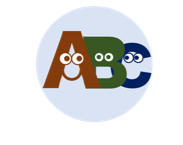
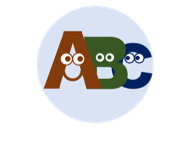
member

diff --git a/_site/index.html b/_site/index.html
@@ -95,7 +95,7 @@
         <div class="container">
             <div class="row">
                 <div class="col-lg-12">
-                    <img class="img-responsive" src="img/abc_small.png" alt="">
+                    <img class="img-responsive" src="img/abc_middle.png" width="400" alt="">
                     <div class="intro-text">
                         <hr class="star-light">
                         <span class="sub">International Conference on</span>
@@ -259,7 +259,7 @@
                       <p><b>Atiqur Rahman Ahad</b>, <i>University of Dhaka, Bangladesh / Osaka University, Japan</i></p>
                     
                   
-                  <h3>Program Chairs (tentative)</h3>
+                  <h3>Program Chairs</h3>
                     
                       <p><b>Ren Ohmura</b>, <i>Toyohashi University of Technology, Japan</i></p>
                     
@@ -270,10 +270,12 @@
                     
                       <p><b>Paul Lukowicz</b>, <i>DFKI, Germany</i></p>
                     
+                      <p><b>Kristof Van Laerhoven</b>, <i>University of Siegen, Germany</i></p>
+                    
                       <p><b>Daniel Roggen</b>, <i>University of Sussex, UK</i></p>
                     
                   
-                  <h3>Program Committee (TBD)</h3>
+                  <h3>Program Committee (TBA)</h3>
                     
                       <p><b>Kristof Van Laerhoven</b>, <i>University of Siegen, Germany</i></p>
                     
@@ -286,6 +288,10 @@
                       <p><b>Hristijan Gjoreski</b>, <i>Ss. Cyril and Methodius University, Macedonia</i></p>
                     
                       <p><b>Katsuhiko Kaji</b>, <i>Aichi Institute of Technology, Japan</i></p>
+                    
+                      <p><b>Tsuyoshi Okita</b>, <i>Kyushu Institute of Technology / Riken, Japan</i></p>
+                    
+                      <p><b>Paula Lago</b>, <i>Kyushu Institute of Technology, Japan</i></p>
                     
                   
                 </div>

diff --git a/_site/web development/2014/07/14/project-5/index.html b/_site/web development/2014/07/14/project-5/index.html
@@ -95,7 +95,7 @@
         <div class="container">
             <div class="row">
                 <div class="col-lg-12">
-                    <img class="img-responsive" src="img/abc_small.png" alt="">
+                    <img class="img-responsive" src="img/abc_middle.png" width="400" alt="">
                     <div class="intro-text">
                         <hr class="star-light">
                         <span class="sub">International Conference on</span>
@@ -259,7 +259,7 @@
                       <p><b>Atiqur Rahman Ahad</b>, <i>University of Dhaka, Bangladesh / Osaka University, Japan</i></p>
                     
                   
-                  <h3>Program Chairs (tentative)</h3>
+                  <h3>Program Chairs</h3>
                     
                       <p><b>Ren Ohmura</b>, <i>Toyohashi University of Technology, Japan</i></p>
                     
@@ -270,10 +270,12 @@
                     
                       <p><b>Paul Lukowicz</b>, <i>DFKI, Germany</i></p>
                     
+                      <p><b>Kristof Van Laerhoven</b>, <i>University of Siegen, Germany</i></p>
+                    
                       <p><b>Daniel Roggen</b>, <i>University of Sussex, UK</i></p>
                     
                   
-                  <h3>Program Committee (TBD)</h3>
+                  <h3>Program Committee (TBA)</h3>
                     
                       <p><b>Kristof Van Laerhoven</b>, <i>University of Siegen, Germany</i></p>
                     
@@ -286,6 +288,10 @@
                       <p><b>Hristijan Gjoreski</b>, <i>Ss. Cyril and Methodius University, Macedonia</i></p>
                     
                       <p><b>Katsuhiko Kaji</b>, <i>Aichi Institute of Technology, Japan</i></p>
+                    
+                      <p><b>Tsuyoshi Okita</b>, <i>Kyushu Institute of Technology / Riken, Japan</i></p>
+                    
+                      <p><b>Paula Lago</b>, <i>Kyushu Institute of Technology, Japan</i></p>
                     
                   
                 </div>

diff --git a/_site/web development/2014/07/15/project-4/index.html b/_site/web development/2014/07/15/project-4/index.html
@@ -95,7 +95,7 @@
         <div class="container">
             <div class="row">
                 <div class="col-lg-12">
-                    <img class="img-responsive" src="img/abc_small.png" alt="">
+                    <img class="img-responsive" src="img/abc_middle.png" width="400" alt="">
                     <div class="intro-text">
                         <hr class="star-light">
                         <span class="sub">International Conference on</span>
@@ -259,7 +259,7 @@
                       <p><b>Atiqur Rahman Ahad</b>, <i>University of Dhaka, Bangladesh / Osaka University, Japan</i></p>
                     
                   
-                  <h3>Program Chairs (tentative)</h3>
+                  <h3>Program Chairs</h3>
                     
                       <p><b>Ren Ohmura</b>, <i>Toyohashi University of Technology, Japan</i></p>
                     
@@ -270,10 +270,12 @@
                     
                       <p><b>Paul Lukowicz</b>, <i>DFKI, Germany</i></p>
                     
+                      <p><b>Kristof Van Laerhoven</b>, <i>University of Siegen, Germany</i></p>
+                    
                       <p><b>Daniel Roggen</b>, <i>University of Sussex, UK</i></p>
                     
                   
-                  <h3>Program Committee (TBD)</h3>
+                  <h3>Program Committee (TBA)</h3>
                     
                       <p><b>Kristof Van Laerhoven</b>, <i>University of Siegen, Germany</i></p>
                     
@@ -286,6 +288,10 @@
                       <p><b>Hristijan Gjoreski</b>, <i>Ss. Cyril and Methodius University, Macedonia</i></p>
                     
                       <p><b>Katsuhiko Kaji</b>, <i>Aichi Institute of Technology, Japan</i></p>
+                    
+                      <p><b>Tsuyoshi Okita</b>, <i>Kyushu Institute of Technology / Riken, Japan</i></p>
+                    
+                      <p><b>Paula Lago</b>, <i>Kyushu Institute of Technology, Japan</i></p>
                     
                   
                 </div>

diff --git a/_site/web development/2014/07/15/project-6/index.html b/_site/web development/2014/07/15/project-6/index.html
@@ -95,7 +95,7 @@
         <div class="container">
             <div class="row">
                 <div class="col-lg-12">
-                    <img class="img-responsive" src="img/abc_small.png" alt="">
+                    <img class="img-responsive" src="img/abc_middle.png" width="400" alt="">
                     <div class="intro-text">
                         <hr class="star-light">
                         <span class="sub">International Conference on</span>
@@ -259,7 +259,7 @@
                       <p><b>Atiqur Rahman Ahad</b>, <i>University of Dhaka, Bangladesh / Osaka University, Japan</i></p>
                     
                   
-                  <h3>Program Chairs (tentative)</h3>
+                  <h3>Program Chairs</h3>
                     
                       <p><b>Ren Ohmura</b>, <i>Toyohashi University of Technology, Japan</i></p>
                     
@@ -270,10 +270,12 @@
                     
                       <p><b>Paul Lukowicz</b>, <i>DFKI, Germany</i></p>
                     
+                      <p><b>Kristof Van Laerhoven</b>, <i>University of Siegen, Germany</i></p>
+                    
                       <p><b>Daniel Roggen</b>, <i>University of Sussex, UK</i></p>
                     
                   
-                  <h3>Program Committee (TBD)</h3>
+                  <h3>Program Committee (TBA)</h3>
                     
                       <p><b>Kristof Van Laerhoven</b>, <i>University of Siegen, Germany</i></p>
                     
@@ -286,6 +288,10 @@
                       <p><b>Hristijan Gjoreski</b>, <i>Ss. Cyril and Methodius University, Macedonia</i></p>
                     
                       <p><b>Katsuhiko Kaji</b>, <i>Aichi Institute of Technology, Japan</i></p>
+                    
+                      <p><b>Tsuyoshi Okita</b>, <i>Kyushu Institute of Technology / Riken, Japan</i></p>
+                    
+                      <p><b>Paula Lago</b>, <i>Kyushu Institute of Technology, Japan</i></p>
                     
                   
                 </div>

diff --git a/_site/web development/2014/07/16/project-3/index.html b/_site/web development/2014/07/16/project-3/index.html
@@ -95,7 +95,7 @@
         <div class="container">
             <div class="row">
                 <div class="col-lg-12">
-                    <img class="img-responsive" src="img/abc_small.png" alt="">
+                    <img class="img-responsive" src="img/abc_middle.png" width="400" alt="">
                     <div class="intro-text">
                         <hr class="star-light">
                         <span class="sub">International Conference on</span>
@@ -259,7 +259,7 @@
                       <p><b>Atiqur Rahman Ahad</b>, <i>University of Dhaka, Bangladesh / Osaka University, Japan</i></p>
                     
                   
-                  <h3>Program Chairs (tentative)</h3>
+                  <h3>Program Chairs</h3>
                     
                       <p><b>Ren Ohmura</b>, <i>Toyohashi University of Technology, Japan</i></p>
                     
@@ -270,10 +270,12 @@
                     
                       <p><b>Paul Lukowicz</b>, <i>DFKI, Germany</i></p>
                     
+                      <p><b>Kristof Van Laerhoven</b>, <i>University of Siegen, Germany</i></p>
+                    
                       <p><b>Daniel Roggen</b>, <i>University of Sussex, UK</i></p>
                     
                   
-                  <h3>Program Committee (TBD)</h3>
+                  <h3>Program Committee (TBA)</h3>
                     
                       <p><b>Kristof Van Laerhoven</b>, <i>University of Siegen, Germany</i></p>
                     
@@ -286,6 +288,10 @@
                       <p><b>Hristijan Gjoreski</b>, <i>Ss. Cyril and Methodius University, Macedonia</i></p>
                     
                       <p><b>Katsuhiko Kaji</b>, <i>Aichi Institute of Technology, Japan</i></p>
+                    
+                      <p><b>Tsuyoshi Okita</b>, <i>Kyushu Institute of Technology / Riken, Japan</i></p>
+                    
+                      <p><b>Paula Lago</b>, <i>Kyushu Institute of Technology, Japan</i></p>
                     
                   
                 </div>

diff --git a/_site/web development/2014/07/17/project-2/index.html b/_site/web development/2014/07/17/project-2/index.html
@@ -95,7 +95,7 @@
         <div class="container">
             <div class="row">
                 <div class="col-lg-12">
-                    <img class="img-responsive" src="img/abc_small.png" alt="">
+                    <img class="img-responsive" src="img/abc_middle.png" width="400" alt="">
                     <div class="intro-text">
                         <hr class="star-light">
                         <span class="sub">International Conference on</span>
@@ -259,7 +259,7 @@
                       <p><b>Atiqur Rahman Ahad</b>, <i>University of Dhaka, Bangladesh / Osaka University, Japan</i></p>
                     
                   
-                  <h3>Program Chairs (tentative)</h3>
+                  <h3>Program Chairs</h3>
                     
                       <p><b>Ren Ohmura</b>, <i>Toyohashi University of Technology, Japan</i></p>
                     
@@ -270,10 +270,12 @@
                     
                       <p><b>Paul Lukowicz</b>, <i>DFKI, Germany</i></p>
                     
+                      <p><b>Kristof Van Laerhoven</b>, <i>University of Siegen, Germany</i></p>
+                    
                       <p><b>Daniel Roggen</b>, <i>University of Sussex, UK</i></p>
                     
                   
-                  <h3>Program Committee (TBD)</h3>
+                  <h3>Program Committee (TBA)</h3>
                     
                       <p><b>Kristof Van Laerhoven</b>, <i>University of Siegen, Germany</i></p>
                     
@@ -286,6 +288,10 @@
                       <p><b>Hristijan Gjoreski</b>, <i>Ss. Cyril and Methodius University, Macedonia</i></p>
                     
                       <p><b>Katsuhiko Kaji</b>, <i>Aichi Institute of Technology, Japan</i></p>
+                    
+                      <p><b>Tsuyoshi Okita</b>, <i>Kyushu Institute of Technology / Riken, Japan</i></p>
+                    
+                      <p><b>Paula Lago</b>, <i>Kyushu Institute of Technology, Japan</i></p>
                     
                   
                 </div>

diff --git a/_site/web development/2014/07/18/project-1/index.html b/_site/web development/2014/07/18/project-1/index.html
@@ -95,7 +95,7 @@
         <div class="container">
             <div class="row">
                 <div class="col-lg-12">
-                    <img class="img-responsive" src="img/abc_small.png" alt="">
+                    <img class="img-responsive" src="img/abc_middle.png" width="400" alt="">
                     <div class="intro-text">
                         <hr class="star-light">
                         <span class="sub">International Conference on</span>
@@ -259,7 +259,7 @@
                       <p><b>Atiqur Rahman Ahad</b>, <i>University of Dhaka, Bangladesh / Osaka University, Japan</i></p>
                     
                   
-                  <h3>Program Chairs (tentative)</h3>
+                  <h3>Program Chairs</h3>
                     
                       <p><b>Ren Ohmura</b>, <i>Toyohashi University of Technology, Japan</i></p>
                     
@@ -270,10 +270,12 @@
                     
                       <p><b>Paul Lukowicz</b>, <i>DFKI, Germany</i></p>
                     
+                      <p><b>Kristof Van Laerhoven</b>, <i>University of Siegen, Germany</i></p>
+                    
                       <p><b>Daniel Roggen</b>, <i>University of Sussex, UK</i></p>
                     
                   
-                  <h3>Program Committee (TBD)</h3>
+                  <h3>Program Committee (TBA)</h3>
                     
                       <p><b>Kristof Van Laerhoven</b>, <i>University of Siegen, Germany</i></p>
                     
@@ -286,6 +288,10 @@
                       <p><b>Hristijan Gjoreski</b>, <i>Ss. Cyril and Methodius University, Macedonia</i></p>
                     
                       <p><b>Katsuhiko Kaji</b>, <i>Aichi Institute of Technology, Japan</i></p>
+                    
+                      <p><b>Tsuyoshi Okita</b>, <i>Kyushu Institute of Technology / Riken, Japan</i></p>
+                    
+                      <p><b>Paula Lago</b>, <i>Kyushu Institute of Technology, Japan</i></p>
                     
                   
                 </div>

diff --git a/_includes/header.html b/_includes/header.html
@@ -3,7 +3,7 @@
         <div class="container">
             <div class="row">
                 <div class="col-lg-12">
-                    <img class="img-responsive" src="img/abc_small.png" alt="">
+                    <img class="img-responsive" src="img/abc_middle.png" width="400" alt="">
                     <div class="intro-text">
                         <hr class="star-light">
                         <span class="sub">{{ site.conf_title1 }}</span>
